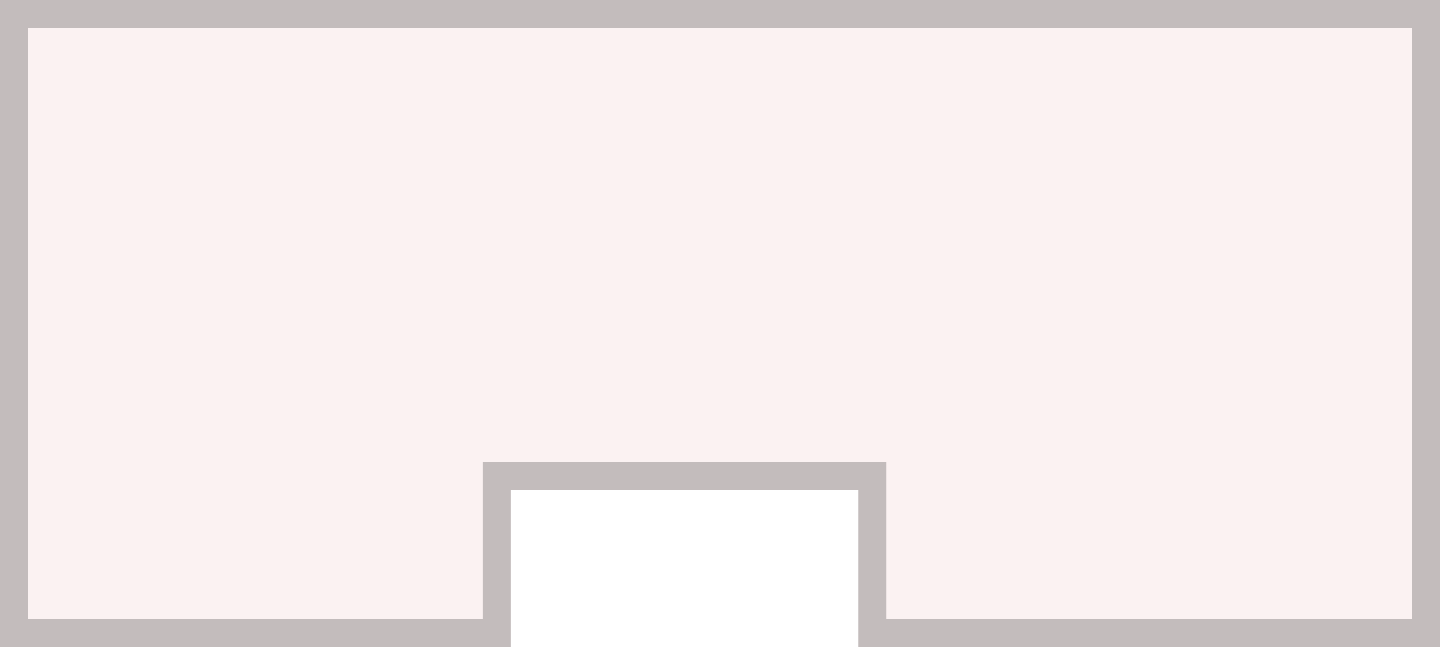
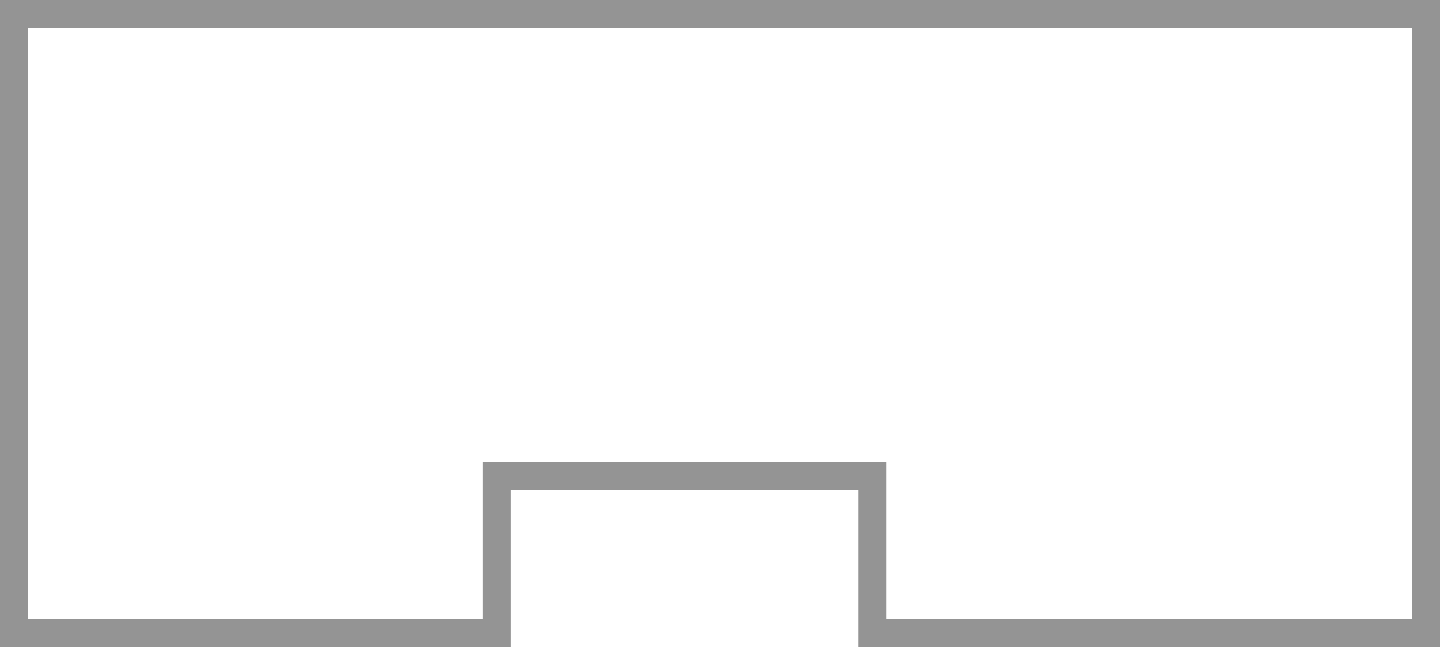
u

Changed region(s): [[0.0, 0.0, 1.0, 1.0]]

diff --git a/final/style.css b/final/style.css
@@ -22,16 +22,16 @@ body{
     display: flex;
     justify-content: center;
     align-items: center;
-    background-color: red;
+ 
     /* min-height: 100vh; */
-    background-color: #534037;
+
 
 }
 
 main{
     width: 100%;
-    /* min-height: 100vh; */
-    background-color: #534037;
+    min-height: 100vh;
+    background-color: #1d1d1d;
    overflow: hidden;
    padding: 1rem;
   
@@ -60,18 +60,20 @@ p, ul, li, span{
 
 .pleading{
     position: absolute;
+    font-size: 1.5rem;
     top:1rem;
     right:1rem;
     width: 20rem;
     height: auto;
     padding: 1rem;
+    border-radius: 20px;
     background-color: white;
     opacity: 0;
     z-index: 100;
 }
 .game-wrapper{
     position: relative;
-    background-color: #d6cbc6;
+    background: url(assets/images/cement-texture-min.jpg.png) center center /cover no-repeat;
     max-width: 75rem;
     /* margin: auto; */
    margin:2rem auto;
@@ -105,14 +107,15 @@ p, ul, li, span{
 }
 .player-voice{
     position: absolute;
-    bottom:2rem;
+    bottom:1rem;
     left: 0;
     color: white;
-
+    font-size: 1.5rem;
     text-shadow: 2px 2px 2px rgb(24, 24, 24);
     text-align: center;
     width: 100%;
     z-index: 999;
+    background-color:rgba(24, 24, 24, 0.616) ;
   }
 .glass-wrapper{
     position: relative;
@@ -127,7 +130,7 @@ p, ul, li, span{
     width: 100%;
     height: 100%;
     opacity: 0.6;
-    background: url(./assets/images/glass2.png) center bottom / cover no-repeat;
+    background: url(./assets/images/glass.png) center bottom / cover no-repeat;
     z-index: 5;
 }
 
@@ -137,7 +140,7 @@ p, ul, li, span{
     left: 25%;
     width: 30rem;
     height: 100%;
-    background: url(./assets/images/profiles/man.png) center center / contain no-repeat;
+    /* background: url(./assets/images/profiles/man.png) center center / contain no-repeat; */
     /* background-color: red; */   
     /* transition: transform 0.5s ease-in-out; */
     z-index: 1;
@@ -258,8 +261,8 @@ p, ul, li, span{
     position: relative;
     /* position: relative;
     bottom: 0; */
-    border-top: #795e51 10px solid;
-    background-color: #9A7767;
+ 
+    background:url(./assets/images/table.png) center center /cover no-repeat;
     width: 100%;
     height: 20rem;
     z-index: 10;
@@ -415,7 +418,7 @@ p, ul, li, span{
     height: 31rem;
     border: 3px solid #601515;
     border-radius: 15px;
-    background-color: #E3C5C7;
+    background-color: #e0c5ca;
     z-index: 200;
     cursor:grab;
     /* transition: transform 0.3s; */
@@ -435,7 +438,7 @@ p, ul, li, span{
     border-radius: 15px 15px 0 0;
     width: 100%;
     height: 50%;
-    background-color: #E0BABD;
+    background-color: #e0c5ca;
     border-bottom: 3px solid #601515;
 }
 .passport-bottom{
@@ -501,7 +504,7 @@ p, ul, li, span{
 
 }
 .passport-bottom-front{
-    background-color: #E0BABD;
+    background-color: #e0c5ca;
     border-radius:0px 0px 15px 15px ;
     border-bottom: 3px solid #601515;
 }
@@ -565,13 +568,13 @@ p, ul, li, span{
     width: 22rem;
     height: 13rem;
     position: absolute;
-    background-color: #323a55;
-    border:#000000 solid 6px;
+
+    border:#292929 solid 6px;
     border-radius: 5px;
     top:2rem;
     left:2rem;
-  
-   /* background:url(assets/images/tv/news.jpg) center center / cover no-repeat; */
+   background:url(assets/images/tv/news1.png) center center / contain no-repeat;
+   background-color: #f5f4f5;
 }
 .tv-screen{
     height: 100%;

diff --git a/final/app.js b/final/app.js
@@ -71,12 +71,12 @@ const russianMaleFirstNames = ['Aleksandr', 'Boris', 'Alexei', 'Daniiil', 'Leoni
 
 const people = [];
 const thankArray = [`Thank you`,`Glory to Moralis`];
-const pleadArray = [`It will be one bullet in the head if I get conscripted.`, `I hope you understand my position`, `I refuse to take part in this meaningless war`, '...I have a family to live for.', `my daughter needs her father. I can't be conscripted.`, `...if I come back I will be drafted...`,`I resigned from the army...they promised to put me in prison for traitor and deserter`]
+const pleadArray = [`It will be one bullet in the head if I get conscripted.`, `I hope you understand my position`, `I refuse to take part in this meaningless war`, '...I have a family to live for.', `my daughter needs her father. I can't be conscripted.`, `please...if I go back I will be drafted...`,`I resigned from the army...they promised to put me in prison for traitor and deserter`]
 
 const femalePleadArray = [`My husband is abroad...`]
 const durationArray = [`1 day`, `2 days`, `3 days`, `4 days`, `5 days`, `6 days`, `7 days`, `8 days`, `9 days`, `10 days`, `11 days`, `12 days`, `12 days`, `13 days`, `14 days`, `15 days`, `16 days`, `17 days`, `18 days`, `19 days`, `20 days`, `21 days`, `22 days`, `23 days`, `24 days`, `25 days`, `26 days`, `27 days`, `28 days`, `about a month`, `2 months`, `3 months`];
 
-const backgroundArray = [[`man.png`,`man2.png`,`man3.png`,`man4.png`,`man5.png`],[`woman.png`,`woman2.png`]]
+const backgroundArray = [[`man.png`,`man2.png`,`man3.png`,`man4.png`,`man5.png`,`man6.png`,`man7.png`,`man8.png`,`man9.png`,`man10.png`,`man11.png`,`man12.png`],[`woman.png`,`woman2.png`,`woman3.png`,`woman4.png`,`woman5.png`]]
 
 
 let purposeDialogue = ``;
@@ -540,7 +540,6 @@ function newsUpdate(){
         tvHeadline.innerHTML =`New military draft law bans Russian conscript from leaving country`;
         currentNews++;
         newsSFX.play();
-
     }
     
     // Over 1,300 arrested in Russia as military call-up ignites widespread protests
@@ -656,6 +655,7 @@ function PersonBlueprint() {
            
             for (let i = 0; i < passportProfileImg.length; i++) {
                 passportProfileImg[i].style.background = `url(./assets/images/profiles/${backgroundArray[0][randomImgIndex]}) center center / cover no-repeat`;
+                passportProfileImg[i].style.backgroundColor = `white`
             }
            
             
@@ -668,6 +668,7 @@ function PersonBlueprint() {
             
             for (let i = 0; i < passportProfileImg.length; i++) {
                 passportProfileImg[i].style.background = `url(./assets/images/profiles/${backgroundArray[1][randomImgIndex]}) center center / cover no-repeat`;
+                passportProfileImg[i].style.backgroundColor = `white`
             }
         }
     }
